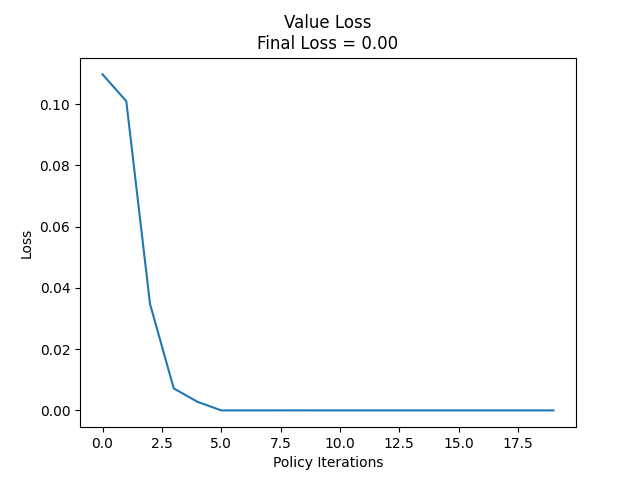
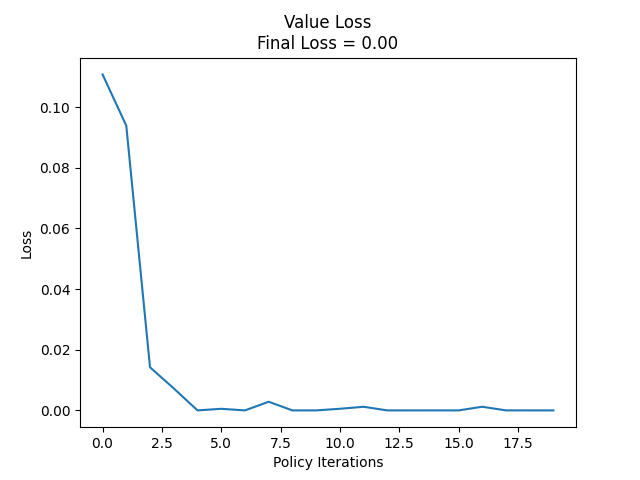
normalize input via mu/std

diff --git a/Utils/train.py b/Utils/train.py
@@ -123,10 +123,6 @@ class PPO_Solver(Solver):
             self.markov_decision_process_lst.append(cp)
         self.value_scale = self.value_model_factory.get_value_scale()
         self.input_scale = self.policy_model_factory.get_input_scale()
-        if self.normalize_input:
-            self.input_scale = self.markov_decision_process.get_state_counts_norm()
-        self.input_scaled = False
-        self.input_scale_value = self.input_scale[:self.value_input_dim]
     
     def get_value_model(self):
         return self.value_model_factory.get_model()
@@ -137,6 +133,16 @@ class PPO_Solver(Solver):
     def get_offset(self, day_num):
         return min(day_num, self.network_horizon_repeat - 1)
     
+    def scale_input(self, state_counts, ts, type = "value"):
+        assert type in ["value", "policy"]
+        if ts not in self.input_scale:
+            input_scale_mean, input_scale_std = torch.zeros(self.policy_input_dim), torch.ones(self.policy_input_dim)
+        else:
+            input_scale_mean, input_scale_std = self.input_scale[ts]["mu"], self.input_scale[ts]["std"]
+        if type == "value":
+            input_scale_mean, input_scale_std = input_scale_mean[:self.value_input_dim], input_scale_std[:self.value_input_dim]
+        return (state_counts - input_scale_mean) / input_scale_std
+    
     def get_advantage(self, curr_state_counts, next_state_counts, action_id, ts, next_ts, payoff, day_num = 0):
 #        payoff = self.payoff_map[ts, action_id]
         offset = self.get_offset(day_num) * self.time_horizon
@@ -146,19 +152,21 @@ class PPO_Solver(Solver):
         else:
             curr, next = curr_state_counts[:self.value_input_dim], next_state_counts[:self.value_input_dim]
 #            curr, next = curr_state_counts, next_state_counts
+        if self.normalize_input:
+            curr, next = self.scale_input(curr, ts, "value"), self.scale_input(next, next_ts, "value")
         with torch.no_grad():
-            curr_value = self.value_model((ts + offset, curr / self.input_scale_value)).reshape((-1,))
+            curr_value = self.value_model((ts + offset, curr)).reshape((-1,))
         mu, sd = self.value_scale[ts + offset]
         curr_value = curr_value * sd + mu
         if next_ts < self.time_horizon - 1:
             with torch.no_grad():
-                next_value = self.value_model((next_ts + offset, next / self.input_scale_value)).reshape((-1,))
+                next_value = self.value_model((next_ts + offset, next)).reshape((-1,))
             mu2, sd2 = self.value_scale[next_ts + offset]
             next_value = next_value * sd2 + mu2
         else:
             #next_value = 0
             if self.num_days > 1:
-                next_value = self.value_model((0 + offset, next / self.input_scale_value)).reshape((-1,))
+                next_value = self.value_model((0 + offset, next)).reshape((-1,))
                 mu2, sd2 = self.value_scale[0 + offset]
                 next_value = next_value * sd2 + mu2
             else:
@@ -171,10 +179,10 @@ class PPO_Solver(Solver):
     
     def get_ratio(self, state_counts, action_id, ts, clipped = False, eps = 0.2, car_id = None, day_num = 0):
         offset = self.get_offset(day_num) * self.time_horizon
-        prob_output = self.policy_predict(state_counts / self.input_scale, ts, prob = True, remove_infeasible = False, car_id = car_id, day_num = day_num)
+        prob_output = self.policy_predict(state_counts, ts, prob = True, remove_infeasible = False, car_id = car_id, day_num = day_num)
         action_id = action_id.reshape((len(action_id), 1))
         prob = prob_output.gather(1, action_id) #prob_output[action_id]
-        prob_benchmark_output = self.policy_predict(state_counts / self.input_scale, ts, prob = True, remove_infeasible = False, use_benchmark = True, car_id = car_id, day_num = day_num)
+        prob_benchmark_output = self.policy_predict(state_counts, ts, prob = True, remove_infeasible = False, use_benchmark = True, car_id = car_id, day_num = day_num)
 #         prob_benchmark_output = self.policy_benchmark_predict(state_counts, ts, prob = True, remove_infeasible = False)
         prob_benchmark = prob_benchmark_output.gather(1, action_id) #prob_benchmark_output[action_id]
         prob = prob.reshape((-1,))
@@ -247,14 +255,17 @@ class PPO_Solver(Solver):
             payoff_lst = (payoff_lst - mu) / sd
             if len(value_dct[t]["state_counts"]) > 0:
                 state_counts_lst = torch.cat(value_dct[t]["state_counts"], dim = 0)
-#                if not self.input_scaled and update_value_scale:
-#                    input_norm = torch.abs(torch.mean(state_counts_lst, dim = 0))
-#                    self.input_scale = torch.max(input_norm, torch.tensor(1.))
-#                    self.input_scaled = True
-#                    self.input_scale_value = self.input_scale[:self.value_input_dim]
+                if update_value_scale:
+                    input_norm_mean = torch.mean(state_counts_lst, dim = 0)
+                    input_norm_std = torch.std(state_counts_lst, dim = 0)
+                    input_scale_mean = input_norm_mean
+                    input_scale_std = torch.max(input_norm_std, torch.tensor(1.))
+                    self.input_scale[t] = {"mu": input_scale_mean, "std": input_scale_std}
                 state_counts_lst = state_counts_lst[:,:self.value_input_dim]
 #                state_counts_lst = torch.vstack(value_dct[t]["state_counts"]).to_dense()
-                value_model_output = self.value_model((t, state_counts_lst / self.input_scale_value)).reshape((-1,))
+                if self.normalize_input:
+                    state_counts_lst = self.scale_input(state_counts_lst, t, "value")
+                value_model_output = self.value_model((t, state_counts_lst)).reshape((-1,))
                 total_value_loss += torch.sum((value_model_output - payoff_lst) ** 2) / val_num #/ self.num_cars / self.time_horizon
 #        total_value_loss /= val_num #self.num_episodes
         value_dct = None
@@ -553,11 +564,15 @@ class PPO_Solver(Solver):
     
     def policy_predict(self, state_counts, ts, prob = True, remove_infeasible = True, use_benchmark = False, lazy_removal = True, car_id = None, state_count_check = None, day_num = 0):
         offset = self.get_offset(day_num)
+        if self.normalize_input:
+            state_counts_input = self.scale_input(state_counts, ts, "policy")
+        else:
+            state_counts_input = state_counts
         if not use_benchmark:
-            output = self.policy_model((ts + offset, state_counts))
+            output = self.policy_model((ts + offset, state_counts_input))
         else:
             with torch.no_grad():
-                output = self.benchmark_policy_model((ts + offset, state_counts))
+                output = self.benchmark_policy_model((ts + offset, state_counts_input))
         if remove_infeasible:
             if len(state_counts.shape) == 1:
                 ret = self.remove_infeasible_actions(state_counts.cpu(), ts, output, car_id = car_id, state_count_check = state_count_check)
@@ -704,7 +719,7 @@ class PPO_Solver(Solver):
 #                if return_action:
                 curr_state_counts_full = markov_decision_process.get_state_counts(deliver = True)
                 curr_state_counts = curr_state_counts.view((1, len(curr_state_counts)))
-                action_id_prob = self.policy_predict(curr_state_counts / self.input_scale, t, prob = True, use_benchmark = True, lazy_removal = lazy_removal, car_id = available_car_ids[car_idx], state_count_check = curr_state_counts_full, day_num = day_num)
+                action_id_prob = self.policy_predict(curr_state_counts, t, prob = True, use_benchmark = True, lazy_removal = lazy_removal, car_id = available_car_ids[car_idx], state_count_check = curr_state_counts_full, day_num = day_num)
                 action_id_prob = action_id_prob.flatten()
                 curr_state_counts = curr_state_counts.flatten()
                 if action_id_prob is not None:
@@ -714,7 +729,7 @@ class PPO_Solver(Solver):
                             msg = self.policy_describe(action_id_prob)
                             payoff = markov_decision_process.get_payoff_curr_ts().clone()
                             self.value_model.eval()
-                            inferred_value = float(self.value_model((t, curr_state_counts / self.input_scale_value)).data)
+#                            inferred_value = float(self.value_model((t, (curr_state_counts - self.input_scale_mean_value) / self.input_scale_std_value)).data)
                             f.write(f"\tt = {t}, car_id = {car_idx}, payoff = {payoff}, inferred state value = {inferred_value}:\n")
                             f.write(self.markov_decision_process.describe_state_counts(curr_state_counts))
                             f.write(msg)

diff --git a/Utils/neural.py b/Utils/neural.py
@@ -1,4 +1,5 @@
 import os, os.path
+import copy
 import pytz
 from datetime import datetime
 import numpy as np
@@ -123,7 +124,7 @@ class ModelFactory:
             self.load_latest(self.descriptor)
         self.model = self.model.to(device = self.device)
         self.value_scale = {}
-        self.input_scale = torch.ones(self.input_dim)
+        self.input_scale = {}
 
     ## Construct a discretized feedforward neural network
     ## The neural network is discretized along the timestamps
@@ -146,11 +147,11 @@ class ModelFactory:
     
     ## Set the input scale
     def set_input_scale(self, input_scale):
-        self.input_scale = input_scale.clone()
+        self.input_scale = copy.deepcopy(input_scale)
     
     ## Get the input scale
     def get_input_scale(self):
-        return self.input_scale.clone()
+        return copy.deepcopy(self.input_scale)
     
     ## Recurrent neural network. To be implemented
     def rnn(self):
